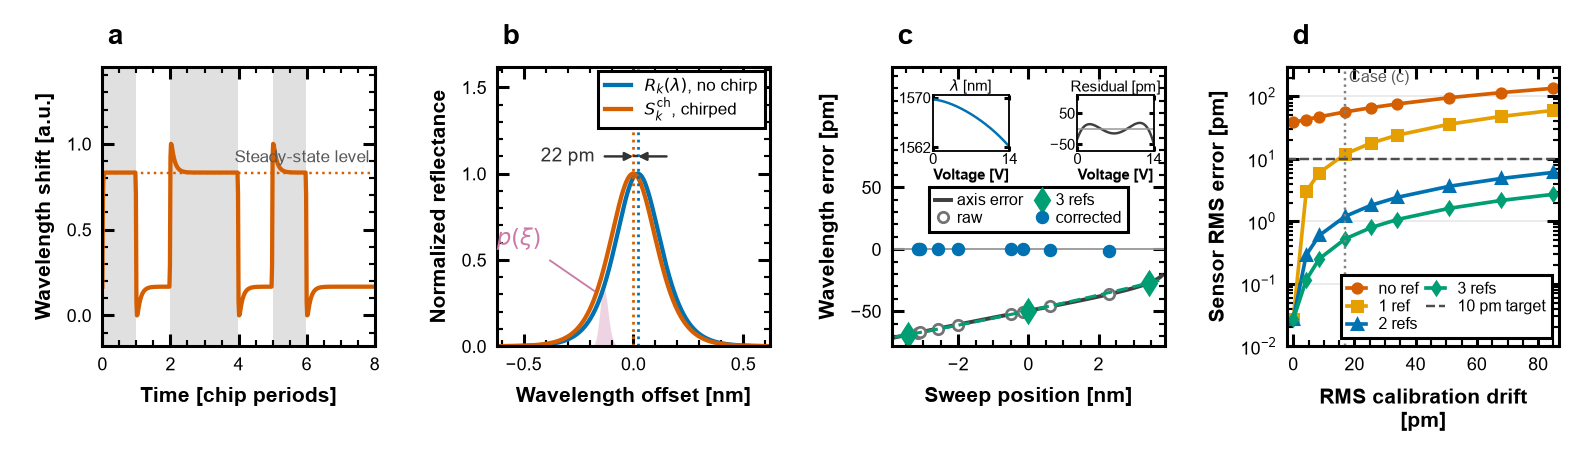
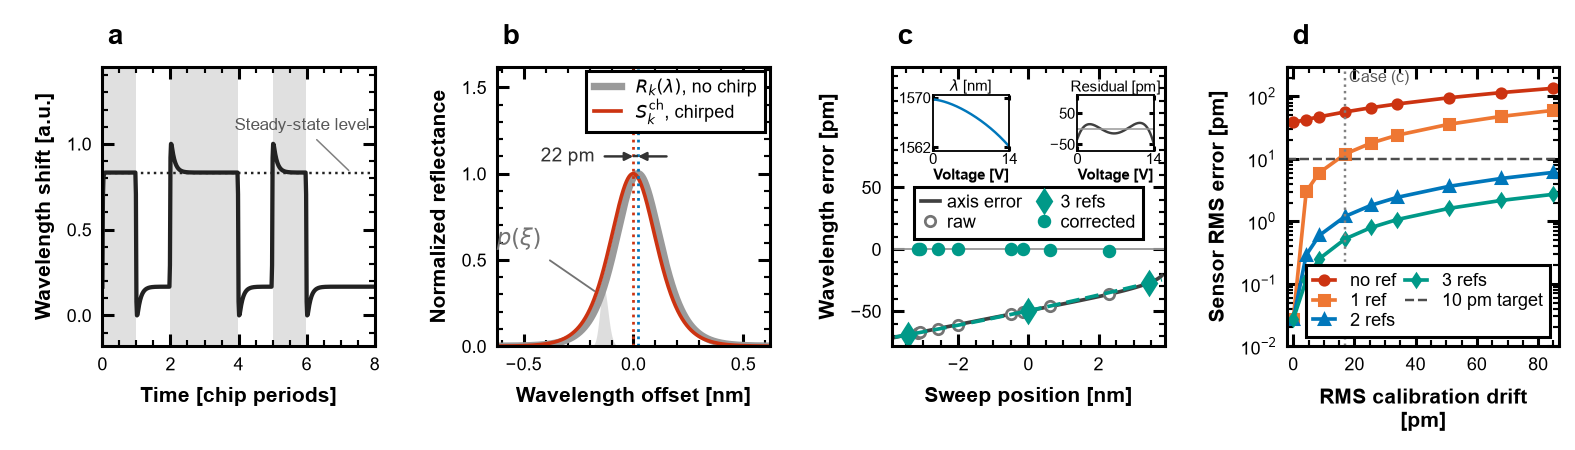
s18: steady-state label moved above the trace, chirped line distinguishable in greyscale

diff --git a/python_selfcal_cdm/s18_source.py b/python_selfcal_cdm/s18_source.py
@@ -221,12 +221,13 @@ ax[0].set_xlabel('time [chip periods]')
 ax[0].set_ylabel('wavelength shift [a.u.]')
 FS.letter(ax[0], 'a')
 ax[0].axhline(plateau, color=FS.C_THEORY, ls=':', lw=0.8)
-ax[0].text(7.85, plateau + 0.06, 'Steady-state level', color='0.35', fontsize=5.5, ha='right')
+ax[0].annotate('Steady-state level', xy=(7.3, plateau), xytext=(7.85, 1.06), color='0.35', fontsize=5.5, ha='right', va='bottom',
+               arrowprops=dict(arrowstyle='-', color='0.5', lw=0.5, shrinkA=0, shrinkB=1))
 ax[0].grid(False)
 
 # --- (b) -------------------------------------------------------------------
-ax[1].plot(g * PM / 1000.0, true_line, color=FS.BLUE, lw=1.4, label='$R_k(\\lambda)$, no chirp')
-ax[1].plot(g * PM / 1000.0, chirped, color=FS.VERM, lw=1.4,
+ax[1].plot(g * PM / 1000.0, true_line, color=FS.C_TRUE, lw=2.4, label='$R_k(\\lambda)$, no chirp')
+ax[1].plot(g * PM / 1000.0, chirped, color=FS.C_MEAS, lw=1.2,
            label='$S_k^{\\mathrm{ch}}$, chirped')
 nu_op = -0.62 * F
 _kd, _kp = C.chirp_kernel(DELTA_DEMO, skew=SKEW)          # the kernel actually used, drawn at the operating point
